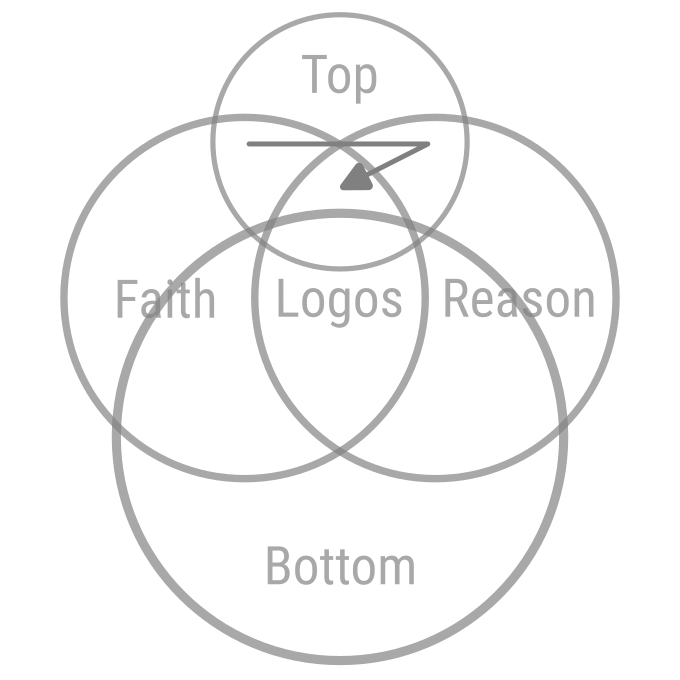
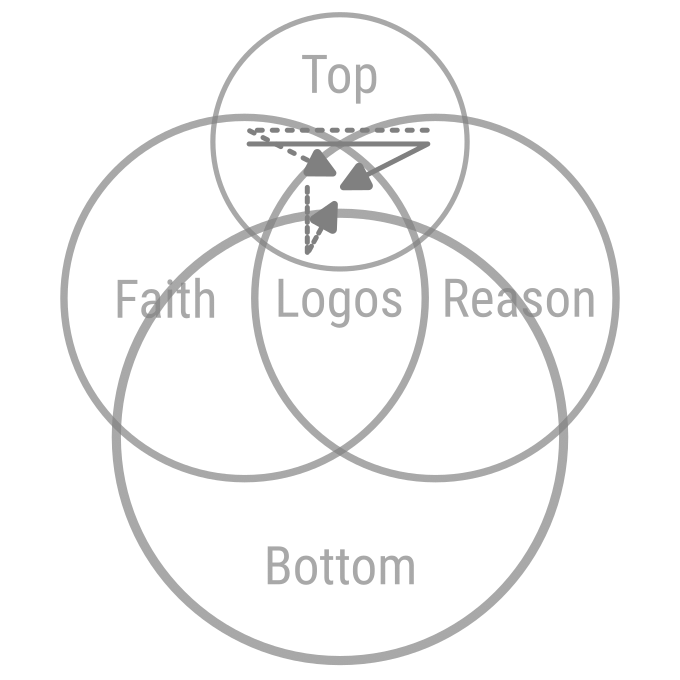
ethics

Changed region(s): [[0.3706, 0.1853, 0.6485, 0.3706]]

diff --git a/docs/faith.md b/docs/faith.md
@@ -20,16 +20,52 @@ layout: default
     - Reason \ Faith ⋂ Top = technē: know how (the laws of logic are in this set)
     - Reason ⋂ Faith ⋂ Top = epistēmē: knowledge
 
+## Art
 
-Default path of enriching the Logos:
+Artistic path of enriching the Logos:
+- Nous (energy of intellect, intelligence)
+- Guiding Wonder, Hope towards a leap of Faith
+- Finding a solid ground in Faith, Axiom
+- Mapping the new teritory in Logos
+- links:
+    - Art in Science: Empiric Discovery
+    - Science of Art: Esthetics (αἰσθητικός aisthētikós)
+    - Art in Production: Artisaning
+    - Production of Art: Art Performing
+
+## Science
+
+Scientific path of enriching the Logos:
 - Nous (energy of intellect, intelligence)
 - Axioms or Logos elements: materia prima
 - Logic: tools of implication
 - (optional) other Logos elements
 - (optional) Logic
 - epistēmē: scientific knowledge, logically deducted Logos
+- links:
+    - Art in Science: Empiric Discovery
+    - Science of Art: Esthetics (αἰσθητικός aisthētikós)
+    - Production of Science: Academia
+    - Science of Production: Applied Science
 
+## Production
 
+Technical path of enriching the Logos:
+- Nous (energy of intellect, intelligence)
+- Choosing the mapping and set from the Logos
+- Using Technique (τέχνη tékhnē) to instantiate the knowledge or to perform an art
+- Acquire knowledge of doing/implementing
+- links:
+    - Art in Production: Artisaning
+    - Production of Art: Art Performing
+    - Production of Science: Academia
+    - Science of Production: Applied Science
+
+![Ethics](images/ethics.png)
+
+## Ethics
+
+Virtues implemented in Art, Science, and Production
 
 ## Definition
 

diff --git a/docs/concepts.md b/docs/concepts.md
@@ -59,6 +59,6 @@ layout: default
     - Lack of Reason
     - Lack of Fortitude
 - Purity:
-    - Loyalty to ideals
-    - Mental Hygiene
+    - Loyalty to ideals, Idealism, Fortitude
+    - Mental Hygiene, Prudence
     - Mental Plasticity
